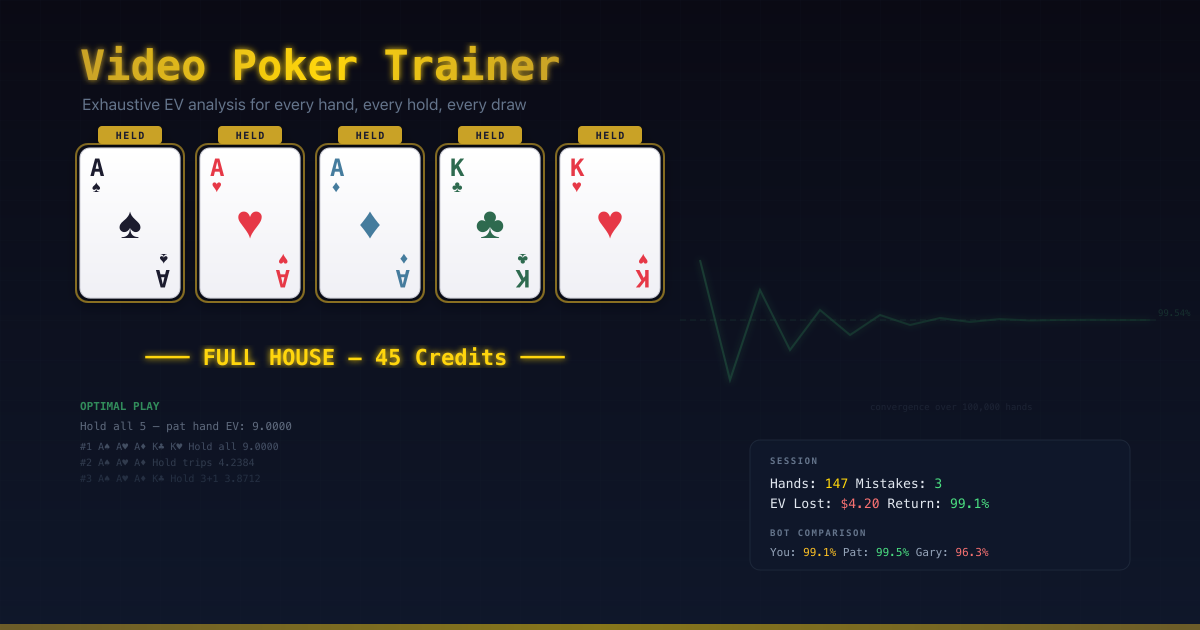
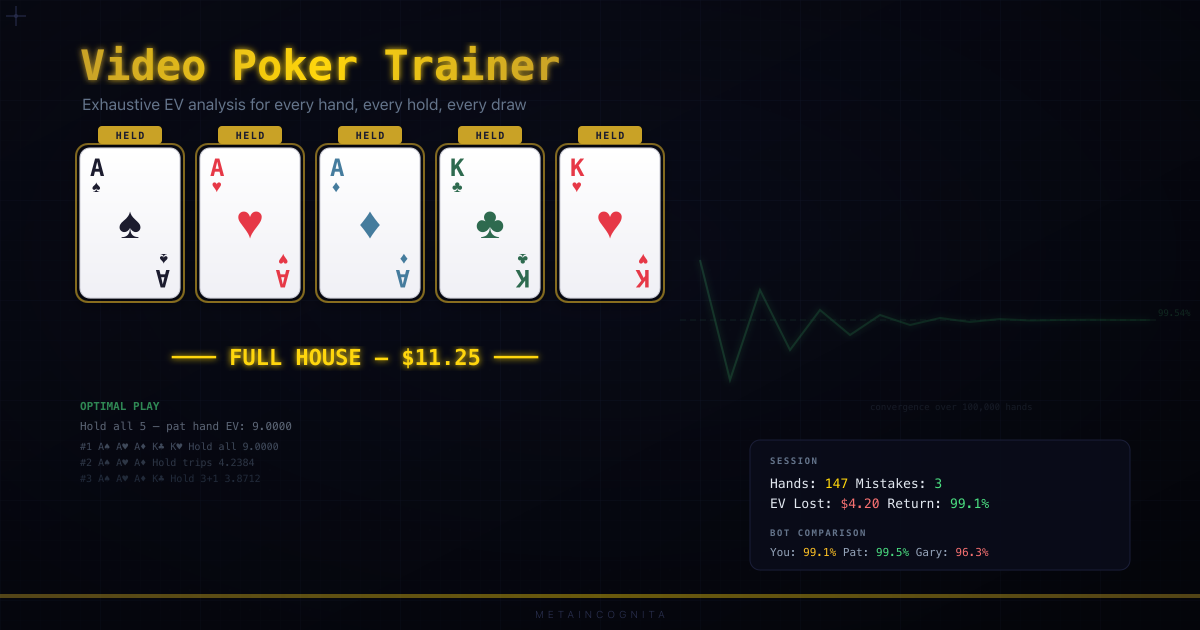
Branded og:image background, design system hero spec, changelog v0.2.0
- Standardized Metaincognita graph-paper background for all hero images:
  5-layer SVG (fine grid, major grid, dot overlay, vignette, gradient)
  with corner registration marks and METAINCOGNITA wordmark
- Design system: full hero image creation guide with SVG defs
- Changelog: v0.2.0 covering UI unification and design system
- PNG regenerated at 1200x630 og:image size

Changed region(s): [[0.0, 0.7238, 1.0, 1.0], [0.1233, 0.5429, 0.4933, 0.6032]]

diff --git a/docs/design-system.md b/docs/design-system.md
@@ -325,6 +325,84 @@ All simulators share the same hardened `netlify.toml` headers:
 
 ---
 
+## Hero Image / og:image — Branded Background
+
+Every simulator's hero image (used as the README header and `og:image` for social sharing) uses the same **branded background** with game-specific content layered on top. Size: **1200×630px** (standard og:image).
+
+### Background Layers (Shared)
+
+The background is built from 5 SVG layers that create a technical graph-paper aesthetic:
+
+```
+1. mc-bg          Deep navy-to-black diagonal gradient (#0a0c1a → #060810)
+2. mc-grid-fine   20px fine grid lines (#141830, 0.4px, 50% opacity)
+3. mc-grid-major  100px major grid lines (#1a1e38, 0.8px, 50% opacity)
+4. mc-dots        20px dot grid overlay (#1e2240, 0.5r circles, 40% opacity)
+5. mc-vignette    Radial vignette darkening the edges
+```
+
+Plus structural elements:
+- **Corner registration marks** — small L-shaped marks at all 4 corners (engineering drawing style)
+- **Bottom branding line** — faint horizontal rule at y=600 with "METAINCOGNITA" letterspaced below it
+- **Bottom accent bar** — 4px colored bar at y=594 in the game's accent color (gold for VP, green for Hold'em, red for Craps, etc.)
+
+### SVG Defs to Copy
+
+Every hero SVG should include these defs (copy from the Video Poker `hero.svg`):
+
+```xml
+<!-- Metaincognita branded background defs -->
+<linearGradient id="mc-bg" ...>         <!-- base gradient -->
+<pattern id="mc-grid-fine" ...>         <!-- 20px fine grid -->
+<pattern id="mc-grid-major" ...>        <!-- 100px major grid -->
+<pattern id="mc-dots" ...>              <!-- dot overlay -->
+<radialGradient id="mc-vignette" ...>   <!-- edge darkening -->
+<symbol id="mc-corner" ...>             <!-- registration mark -->
+<linearGradient id="mc-wordmark-line" ...>  <!-- bottom line -->
+```
+
+### Background Rect Stack
+
+```xml
+<rect width="1200" height="630" fill="url(#mc-bg)"/>
+<rect width="1200" height="630" fill="url(#mc-grid-fine)" opacity="0.5"/>
+<rect width="1200" height="630" fill="url(#mc-grid-major)" opacity="0.5"/>
+<rect width="1200" height="630" fill="url(#mc-dots)" opacity="0.4"/>
+<rect width="1200" height="630" fill="url(#mc-vignette)"/>
+
+<!-- Corner marks -->
+<use href="#mc-corner" x="16" y="16" width="30" height="30"/>
+<use href="#mc-corner" x="1184" y="16" width="30" height="30" transform="scale(-1,1) translate(-1200,0)"/>
+<use href="#mc-corner" x="16" y="614" width="30" height="30" transform="scale(1,-1) translate(0,-630)"/>
+<use href="#mc-corner" x="1184" y="614" width="30" height="30" transform="scale(-1,-1) translate(-1200,-630)"/>
+
+<!-- Branding -->
+<line x1="0" y1="600" x2="1200" y2="600" stroke="url(#mc-wordmark-line)" stroke-width="0.5"/>
+<text x="600" y="618" fill="#2a3050" font-family="system-ui" font-size="10" text-anchor="middle" letter-spacing="4">METAINCOGNITA</text>
+
+<!-- Game accent bar (change color per game) -->
+<rect x="0" y="594" width="1200" height="4" fill="url(#game-accent-gradient)" opacity="0.4"/>
+```
+
+### Game-Specific Content
+
+After the background layers, add game-specific content:
+- **Title** — game name in the game's accent color with glow filter
+- **Subtitle** — one-line description in gray
+- **Visual** — cards, dice, table, wheel, etc. at ~y=160-360
+- **Data** — EV analysis, stats, bot comparison at ~y=400-580
+
+### Converting to PNG
+
+```bash
+# Requires poppler (brew install poppler) or librsvg (brew install librsvg)
+rsvg-convert -w 1200 -h 630 public/hero.svg -o public/hero.png
+```
+
+The README references the PNG (`public/hero.png`) for GitHub compatibility. The SVG is kept as the source file.
+
+---
+
 ## File Structure Convention
 
 ```

diff --git a/CHANGELOG.md b/CHANGELOG.md
@@ -2,6 +2,41 @@
 
 All notable changes to the Video Poker Trainer will be documented in this file.
 
+## [0.2.0] - 2026-04-03
+
+### UI Unification & Design System
+
+#### Metaincognita Branded Background
+- Standardized og:image background for all simulators in the collection
+- 5-layer technical graph-paper aesthetic: fine grid, major grid, dot overlay, radial vignette, base gradient
+- Corner registration marks (engineering drawing feel)
+- Bottom branding line with "METAINCOGNITA" letterspaced wordmark
+- Per-game accent bar (gold for VP, green for Hold'em, etc.)
+- Full specification and SVG defs documented in design-system.md
+
+#### Design System Document
+- `docs/design-system.md`: comprehensive UI specification for the simulator collection
+- Shared color palette, typography scale, layout patterns
+- Per-game accent colors (Hold'em green, VP amber, Craps red, Blackjack emerald, Roulette rose, Slots purple)
+- Component patterns with exact Tailwind classes
+- Game area vs chrome separation principle
+- Hero image creation guide with SVG defs and PNG conversion
+
+#### UI Improvements
+- Game page header info bar (NLH pattern): back button, hand #, variant, phase, balance, history link
+- UTooltip on all bankroll panel metrics with contextual explanations
+- Training panel converted from light to dark theme (matches NLH stats panel)
+- Interactive sparkline dots with hover tooltips (hand #, result, +/- dollars, balance)
+- "View Bot Comparison" scroll link replaces "training panel" jargon
+- Hand history shows all hands with held cards and +/- dollars (not just mistakes)
+- Variant switch confirmation modal when mid-session
+- Sub-tab reserved height slot (no layout shift)
+- Rules modal: strategy differences section, complexity rating, JoB pay table variants
+- Wild card highlighting (green glow + WILD label on deuces)
+- All currency in dollars (no credits anywhere)
+
+---
+
 ## [0.1.0] - 2026-04-03
 
 ### Initial Build
